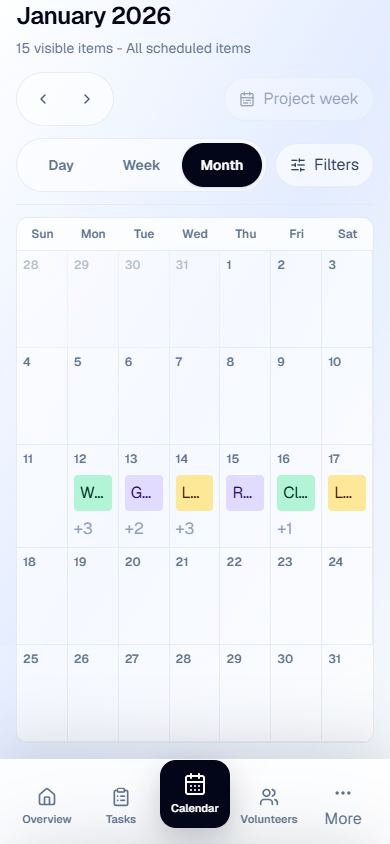
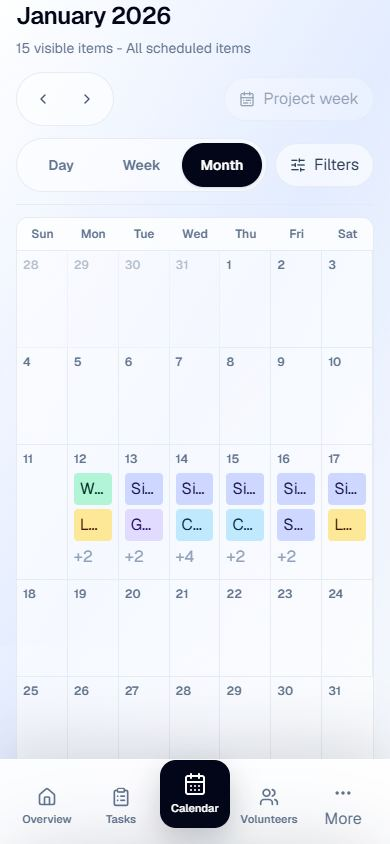
Increase calendar month density

diff --git a/cvc-scheduler/app/admin/calendar/page.tsx b/cvc-scheduler/app/admin/calendar/page.tsx
@@ -1331,6 +1331,9 @@ function deriveMockMonthDates(referenceDate: string) {
   });
 }
 
+const monthMobileVisibleItemLimit = 2;
+const monthDesktopVisibleItemLimit = 3;
+
 function MonthView({
   items,
   onCreateFromSlot,
@@ -1360,14 +1363,24 @@ function MonthView({
       </div>
       <div className="grid grid-cols-7">
         {dates.map((date) => {
-          const dateItems = items.filter((item) => item.date === date).map(enrichCalendarItem);
+          const dateItems = items
+            .filter((item) => doesCalendarItemOccurOnDate(item, date))
+            .map(enrichCalendarItem);
+          const mobileOverflowCount = Math.max(
+            dateItems.length - monthMobileVisibleItemLimit,
+            0,
+          );
+          const desktopOverflowCount = Math.max(
+            dateItems.length - monthDesktopVisibleItemLimit,
+            0,
+          );
           const inMonth =
             new Date(`${date}T00:00:00Z`).getUTCMonth() === reference.getUTCMonth();
 
           return (
             <div
               className={[
-                "relative min-h-24 border-r border-b border-slate-200/80 last:border-r-0 sm:min-h-28",
+                "relative min-h-24 border-r border-b border-slate-200/80 last:border-r-0 sm:min-h-32",
                 inMonth ? "bg-white/24" : "bg-slate-50/42 opacity-45",
               ].join(" ")}
               key={date}
@@ -1386,16 +1399,17 @@ function MonthView({
                 }
                 type="button"
               />
-              <div className="pointer-events-none relative z-10 flex min-h-24 flex-col p-1.5 sm:min-h-28 sm:p-2">
+              <div className="pointer-events-none relative z-10 flex min-h-24 flex-col p-1.5 sm:min-h-32 sm:p-2">
                 <span className="text-xs font-semibold text-slate-500">
                   {Number(date.slice(-2))}
                 </span>
-                <div className="mt-2 space-y-1.5">
-                  {dateItems.slice(0, 1).map((item) => (
+                <div className="mt-1.5 space-y-1">
+                  {dateItems.slice(0, monthDesktopVisibleItemLimit).map((item, index) => (
                     <button
                       aria-label={getCalendarItemAccessibleLabel(item)}
                       className={[
-                        `pointer-events-auto w-full rounded px-1.5 py-1.5 text-left text-[10px] font-semibold transition sm:px-2 sm:text-[11px] ${calmFocusRing}`,
+                        `pointer-events-auto w-full rounded px-1.5 py-1 text-left text-[10px] font-semibold transition sm:px-2 sm:text-[11px] ${calmFocusRing}`,
+                        index >= monthMobileVisibleItemLimit ? "hidden sm:block" : "",
                         getCalendarEventStyle(item),
                         selectedId === item.id
                           ? "ring-2 ring-slate-900/30 ring-offset-1"
@@ -1415,14 +1429,24 @@ function MonthView({
                       </span>
                     </button>
                   ))}
-                  {dateItems.length > 1 ? (
+                  {mobileOverflowCount > 0 ? (
                     <button
-                      aria-label={`Switch to Day view for ${getCalendarCompactDayLabel(date)} to show ${dateItems.length - 1} more scheduled item${dateItems.length - 1 === 1 ? "" : "s"}`}
-                      className={`pointer-events-auto text-[10px] font-semibold text-slate-400 transition hover:text-slate-700 sm:text-[11px] ${calmFocusRing}`}
+                      aria-label={`Switch to Day view for ${getCalendarCompactDayLabel(date)} to show ${mobileOverflowCount} more scheduled item${mobileOverflowCount === 1 ? "" : "s"}`}
+                      className={`pointer-events-auto text-[10px] font-semibold text-slate-400 transition hover:text-slate-700 sm:hidden ${calmFocusRing}`}
                       onClick={() => onFocusDate(date)}
                       type="button"
                     >
-                      +{dateItems.length - 1}
+                      +{mobileOverflowCount}
+                    </button>
+                  ) : null}
+                  {desktopOverflowCount > 0 ? (
+                    <button
+                      aria-label={`Switch to Day view for ${getCalendarCompactDayLabel(date)} to show ${desktopOverflowCount} more scheduled item${desktopOverflowCount === 1 ? "" : "s"}`}
+                      className={`pointer-events-auto hidden text-[11px] font-semibold text-slate-400 transition hover:text-slate-700 sm:inline-flex ${calmFocusRing}`}
+                      onClick={() => onFocusDate(date)}
+                      type="button"
+                    >
+                      +{desktopOverflowCount}
                     </button>
                   ) : null}
                 </div>

diff --git a/cvc-scheduler/docs/PROJECT_HISTORY.md b/cvc-scheduler/docs/PROJECT_HISTORY.md
@@ -2033,6 +2033,43 @@ Limitations:
 Next recommended step:
 - 09.37 Calendar Month Density + Overflow Behavior.
 
+## Iteration 09.37 — Calendar Month Density + Overflow Behavior
+
+Summary:
+- Increased Month density from one visible item to a fixed responsive limit: three compact rows on larger screens and two rows below 640px.
+- Kept `+N` only for true breakpoint-specific overflow and preserved its keyboard-accessible Day-view focus behavior with descriptive date/count labels.
+- Reused the shared date-intersection helper so current compatibility all-day/multi-day validation items appear as compact rows on each relevant Month date without adding complex horizontal spans.
+- Preserved deterministic event colors, minimal task-name/coverage content, the flat calendar grid, and richer item details in the inspector.
+- Preserved the full-cell background creation target and kept event/overflow controls as separate foreground siblings with no nested interactive controls.
+- Refreshed the existing desktop and mobile Month previews; screenshot selectors and capture scope did not change.
+
+Changed files:
+- `app/admin/calendar/page.tsx`
+- `docs/CALENDAR_DATA_MODEL_READINESS.md`
+- `docs/CURRENT_STATE.md`
+- `docs/PROJECT_HISTORY.md`
+- `docs/ROADMAP.md`
+- `docs/previews/latest/calendar-month.jpg`
+- `docs/previews/latest/mobile-calendar-month.jpg`
+
+Verification:
+- `npm.cmd run lint` passed.
+- `npm.cmd run build` passed.
+- `npm.cmd run preview:screenshots` passed against the production preview.
+- Desktop production-browser QA confirmed three visible rows, true overflow counts, `+N` focus to Day, item inspection, and populated-cell creation at the existing 09:00-10:00 default.
+- Week, Day, Filters, creation, Escape dismissal, and focus behavior remained functional.
+- Mobile QA at 390px confirmed two visible rows, breakpoint-correct overflow counts, populated-cell creation, one active sheet at a time, bottom-navigation clearance, and no horizontal overflow.
+- No nested buttons, console errors, page errors, or hydration warnings were found.
+
+Limitations:
+- Month uses compact per-date rows rather than horizontal multi-day spans; range items repeat on intersecting dates for now.
+- The row limits are fixed responsive rules rather than measurements of dynamic cell height.
+- Current All day compatibility terminology and mock scheduling semantics were not redesigned.
+- No persistence, Supabase, auth, mutations, drag/drop, resizing, assignment workflow, List view, Timeline / Work Plan, schema, or scheduling engine was added.
+
+Next recommended step:
+- 09.38 Calendar Month Density Visual QA + Terminology Review.
+
 ## Documentation Maintenance Rules
 
 - Every future Codex iteration should update `PROJECT_HISTORY.md` with a concise entry.

diff --git a/cvc-scheduler/docs/CALENDAR_DATA_MODEL_READINESS.md b/cvc-scheduler/docs/CALENDAR_DATA_MODEL_READINESS.md
@@ -88,15 +88,16 @@ Day and Week remain the operational scheduling views. A future List view should 
 
 ### Month view implications
 
-Month currently shows one chip plus a quiet `+N` per date. That protected full-cell creation during the interaction foundation, but it is too restrictive for the mature Calendar.
+Month originally showed one chip plus a quiet `+N` per date. That protected full-cell creation during the interaction foundation, but it was too restrictive for the mature Calendar.
 
-The next Month pass should:
+Iteration 09.37 applies the first Month-density step:
 
-- Show more compact item rows when cell height allows while preserving calm spacing and truncation.
-- Keep a quiet `+N` only for true overflow; activating it should focus Day view for that date.
-- Keep the full-cell creation target behind foreground item and overflow controls.
-- Preserve event chips and the background creation target as sibling controls with no nested interactive elements.
-- Reserve a coherent treatment for date-based items, project windows, and milestones without implementing dense spanning logic prematurely.
+- Larger screens show up to three compact item rows; screens below 640px show two.
+- A quiet `+N` represents only true breakpoint-specific overflow and focuses Day view for that date.
+- The full-cell creation target remains behind foreground item and overflow sibling controls.
+- Date-intersection helpers allow current compatibility range items to appear on relevant dates without implementing horizontal Month spans.
+
+Future Month work should refine visual density and the terminology/treatment for date-based items, project windows, and milestones without making the grid noisy.
 
 ## Recommended schedule rules
 
@@ -179,7 +180,7 @@ Calendar item lifecycle remains separate from assignment response and derived co
 - Keep one-off custom tasks as deliberate snapshots with validation; do not silently create reusable presets from them.
 - Unify Lunch/menu and other custom-field values without making Food, Security, and General presentation filters separate scheduling models.
 - Keep deterministic colors stable and derived unless explicit user-owned color becomes a requirement.
-- Increase Month density without blocking full-cell creation or weakening sibling-control semantics; keep `+N` focused on Day.
+- Continue refining Month density without blocking full-cell creation or weakening sibling-control semantics; keep `+N` focused on Day.
 - Define List sorting/grouping for date-only and range items without duplicating multi-day windows per date.
 - Let a future Timeline / Work Plan express project windows and milestones without replacing Week or becoming the source of scheduling truth.
 - Decide whether view/date state belongs in the URL before shareable Calendar links are introduced.

diff --git a/cvc-scheduler/docs/CURRENT_STATE.md b/cvc-scheduler/docs/CURRENT_STATE.md
@@ -232,7 +232,7 @@ Upcoming UI direction:
 - Calendar interaction direction remains Google Calendar-inspired without visual cloning: Week keeps days across the x-axis and time down the y-axis, full clickable 24-hour day columns, a subtle two-hour time gutter, hourly separators, duration-based block heights, and deterministic side-by-side lanes for overlapping work. A compact desktop all-day band now sits between the headers and timed grid. Day uses a full 24-hour timeline with quiet clickable hour rows instead of repeated visible "Add task" or "Plan" buttons.
 - Calendar date navigation is local mock UI. Previous/next shifts by one day, week, or month according to the active view; Project week resets the anchor to Jan 13, 2026 and its Jan 12-18 project week. Navigated empty periods retain their normal clickable Day, Week, or Month grids without introducing error states or large empty cards.
 - Calendar date controls now use a compact two-row workspace header on mobile and a balanced title/control layout on desktop. Previous/next and Project week keep 44px touch targets, while Day/Week/Month and Filters share one calm row without horizontal overflow at 390px.
-- Every visible Month date now uses a full-cell background creation target with separate event-chip siblings above it. Month creation seeds the clicked visible date at 09:00-10:00, including dates that already contain scheduled items. Each day shows at most one compact chip plus a quiet `+N` remainder so events do not consume the usable day surface.
+- Every visible Month date uses a full-cell background creation target with separate event-chip siblings above it. Month creation seeds the clicked visible date at 09:00-10:00, including dates that already contain scheduled items. Month now shows up to three compact rows on larger screens and two below 640px, with a quiet `+N` only for the rows truly hidden at that breakpoint.
 - The Calendar now uses a native-calendar visual direction: a compact page title, no dashboard summary-card strip, a flat divider-based workspace toolbar, subtle slate grid lines, and direct Week/Day/Month work surfaces without nested glass-card shadows or redundant inner view headings.
 - Compact Week, Day, mobile Week, and Month events now use a deterministic restrained palette derived from stable task/item identity rather than broad category alone. Count-first typography is smaller and consistent across views, and bars continue to show only task name and volunteer fraction/count where space permits; richer details remain in the inspector.
 - The all-day band recognizes explicit `allDay` items, `All day` time windows, or untimed items; supports optional `endDate` multi-day spans; shows up to two compact lanes; and provides a quiet per-day `+N` overflow action that focuses the existing Day view. A controlled mock validation set now covers Site support week, Preconstruction prep, Concrete prep window, Materials receiving, and Safety coverage.
@@ -245,7 +245,7 @@ Upcoming UI direction:
 - The audit treats `filledCount`, assigned volunteer id arrays, coverage labels, repeat/copy labels, and deterministic colors as mock or derived fields rather than a proposed storage contract. Future assignment records must become the source of confirmation, denial, and coverage truth.
 - The future scheduling contract now distinguishes `timed`, `date_based`, `multi_day_window`, and `milestone`. The current `allDay` flag and visible All day wording remain preview compatibility behavior only; production UI should move toward Timed, Date-based/No specific time, Project window, and Milestone language.
 - Coverage is planned as an explicit capability rather than something inferred from schedule kind. Timed and date-based work may require helpers, multi-day project windows are informational by default, and milestones are informational only.
-- Month density is the next planned Calendar UI pass: show more compact rows when space allows, retain a true-overflow `+N` that focuses Day, and preserve full-cell creation behind sibling event/overflow controls.
+- Month density now exposes more useful schedule context without changing the flat calendar direction. Current timed and compatibility date-based/multi-day items use the shared date-intersection helper, so range items appear on each relevant Month date as compact rows without adding complex horizontal spans.
 - Creation context copy now derives from the editable draft rather than the launch slot, so it continues to say “Suggested” and stays accurate as dates, times, or All day change.
 - A future Timeline / Work Plan view may be useful for dense construction or multi-day work, with date/time on the x-axis and tasks, groups, or days on the y-axis. That remains a later companion view and does not replace the standard Week calendar.
 - Empty-slot creation now treats the clicked/tapped area as suggested calendar context rather than a fixed time window. Day hour rows and Week grid clicks seed specific editable start/end defaults, day-only clicks seed editable date/time defaults, and the flow remains preview-only.
@@ -317,7 +317,7 @@ Latest generated screenshots are written to `docs/previews/latest/`. The folder 
 - The seven-column all-day/multi-day band remains desktop-only. Mobile Week represents the same controlled validation items in its compact day groups, while Day view uses a compact all-day section on both desktop and mobile.
 - The five all-day/multi-day examples are explicitly mock validation data, not production project truth. All-day creation is preview-only and does not add or mutate Calendar items. Mobile exposes the All day toggle in its creation sheet but intentionally has no new all-day-band launcher.
 - Calendar keyboard behavior currently follows normal document tab order. It does not yet implement specialized arrow-key grid traversal or a full modal focus trap; the current dialogs provide initial focus, Escape dismissal, and trigger-focus restoration.
-- Month intentionally shows one directly selectable event chip per date and summarizes additional items with a quiet count; the full item set remains visible in Day and Week views.
+- Month intentionally caps visible density at three rows on larger screens and two below 640px. Additional items use a keyboard-accessible `+N` that focuses Day view; complex cross-week range spanning remains future work.
 - `/admin/login` and `/admin/onboarding` still use their simpler non-workspace shells; the checked workspace admin routes use the shared admin shell.
 - No real questionnaire submissions yet; questionnaire form submission is local-only/mock-only.
 - Questionnaire workflow states are preview/mock-only and do not save changes.
@@ -345,4 +345,4 @@ Latest generated screenshots are written to `docs/previews/latest/`. The folder 
 
 ## 9. Next Recommended Step
 
-09.37 Calendar Month Density + Overflow Behavior.
+09.38 Calendar Month Density Visual QA + Terminology Review.

diff --git a/cvc-scheduler/docs/ROADMAP.md b/cvc-scheduler/docs/ROADMAP.md
@@ -74,7 +74,8 @@ Rough phases:
 - 09.34 Calendar draft validation and creation-surface polish. Completed.
 - 09.35 Calendar production data-model readiness review. Completed.
 - 09.36 Calendar scheduling semantics + persistence contract planning. Completed.
-- 09.37 Calendar Month Density + Overflow Behavior. Next recommended step.
+- 09.37 Calendar Month Density + Overflow Behavior. Completed.
+- 09.38 Calendar Month Density Visual QA + Terminology Review. Next recommended step.
 
 ## 4. Mid-Term Roadmap
 
@@ -128,6 +129,7 @@ Rough phases:
 - 09.35 Calendar production data-model readiness review.
 - 09.36 Calendar scheduling semantics + persistence contract planning.
 - 09.37 Calendar Month Density + Overflow Behavior.
+- 09.38 Calendar Month Density Visual QA + Terminology Review.
 - 09 Tasks + Calendar model.
 - 10 Public volunteer portal.
 